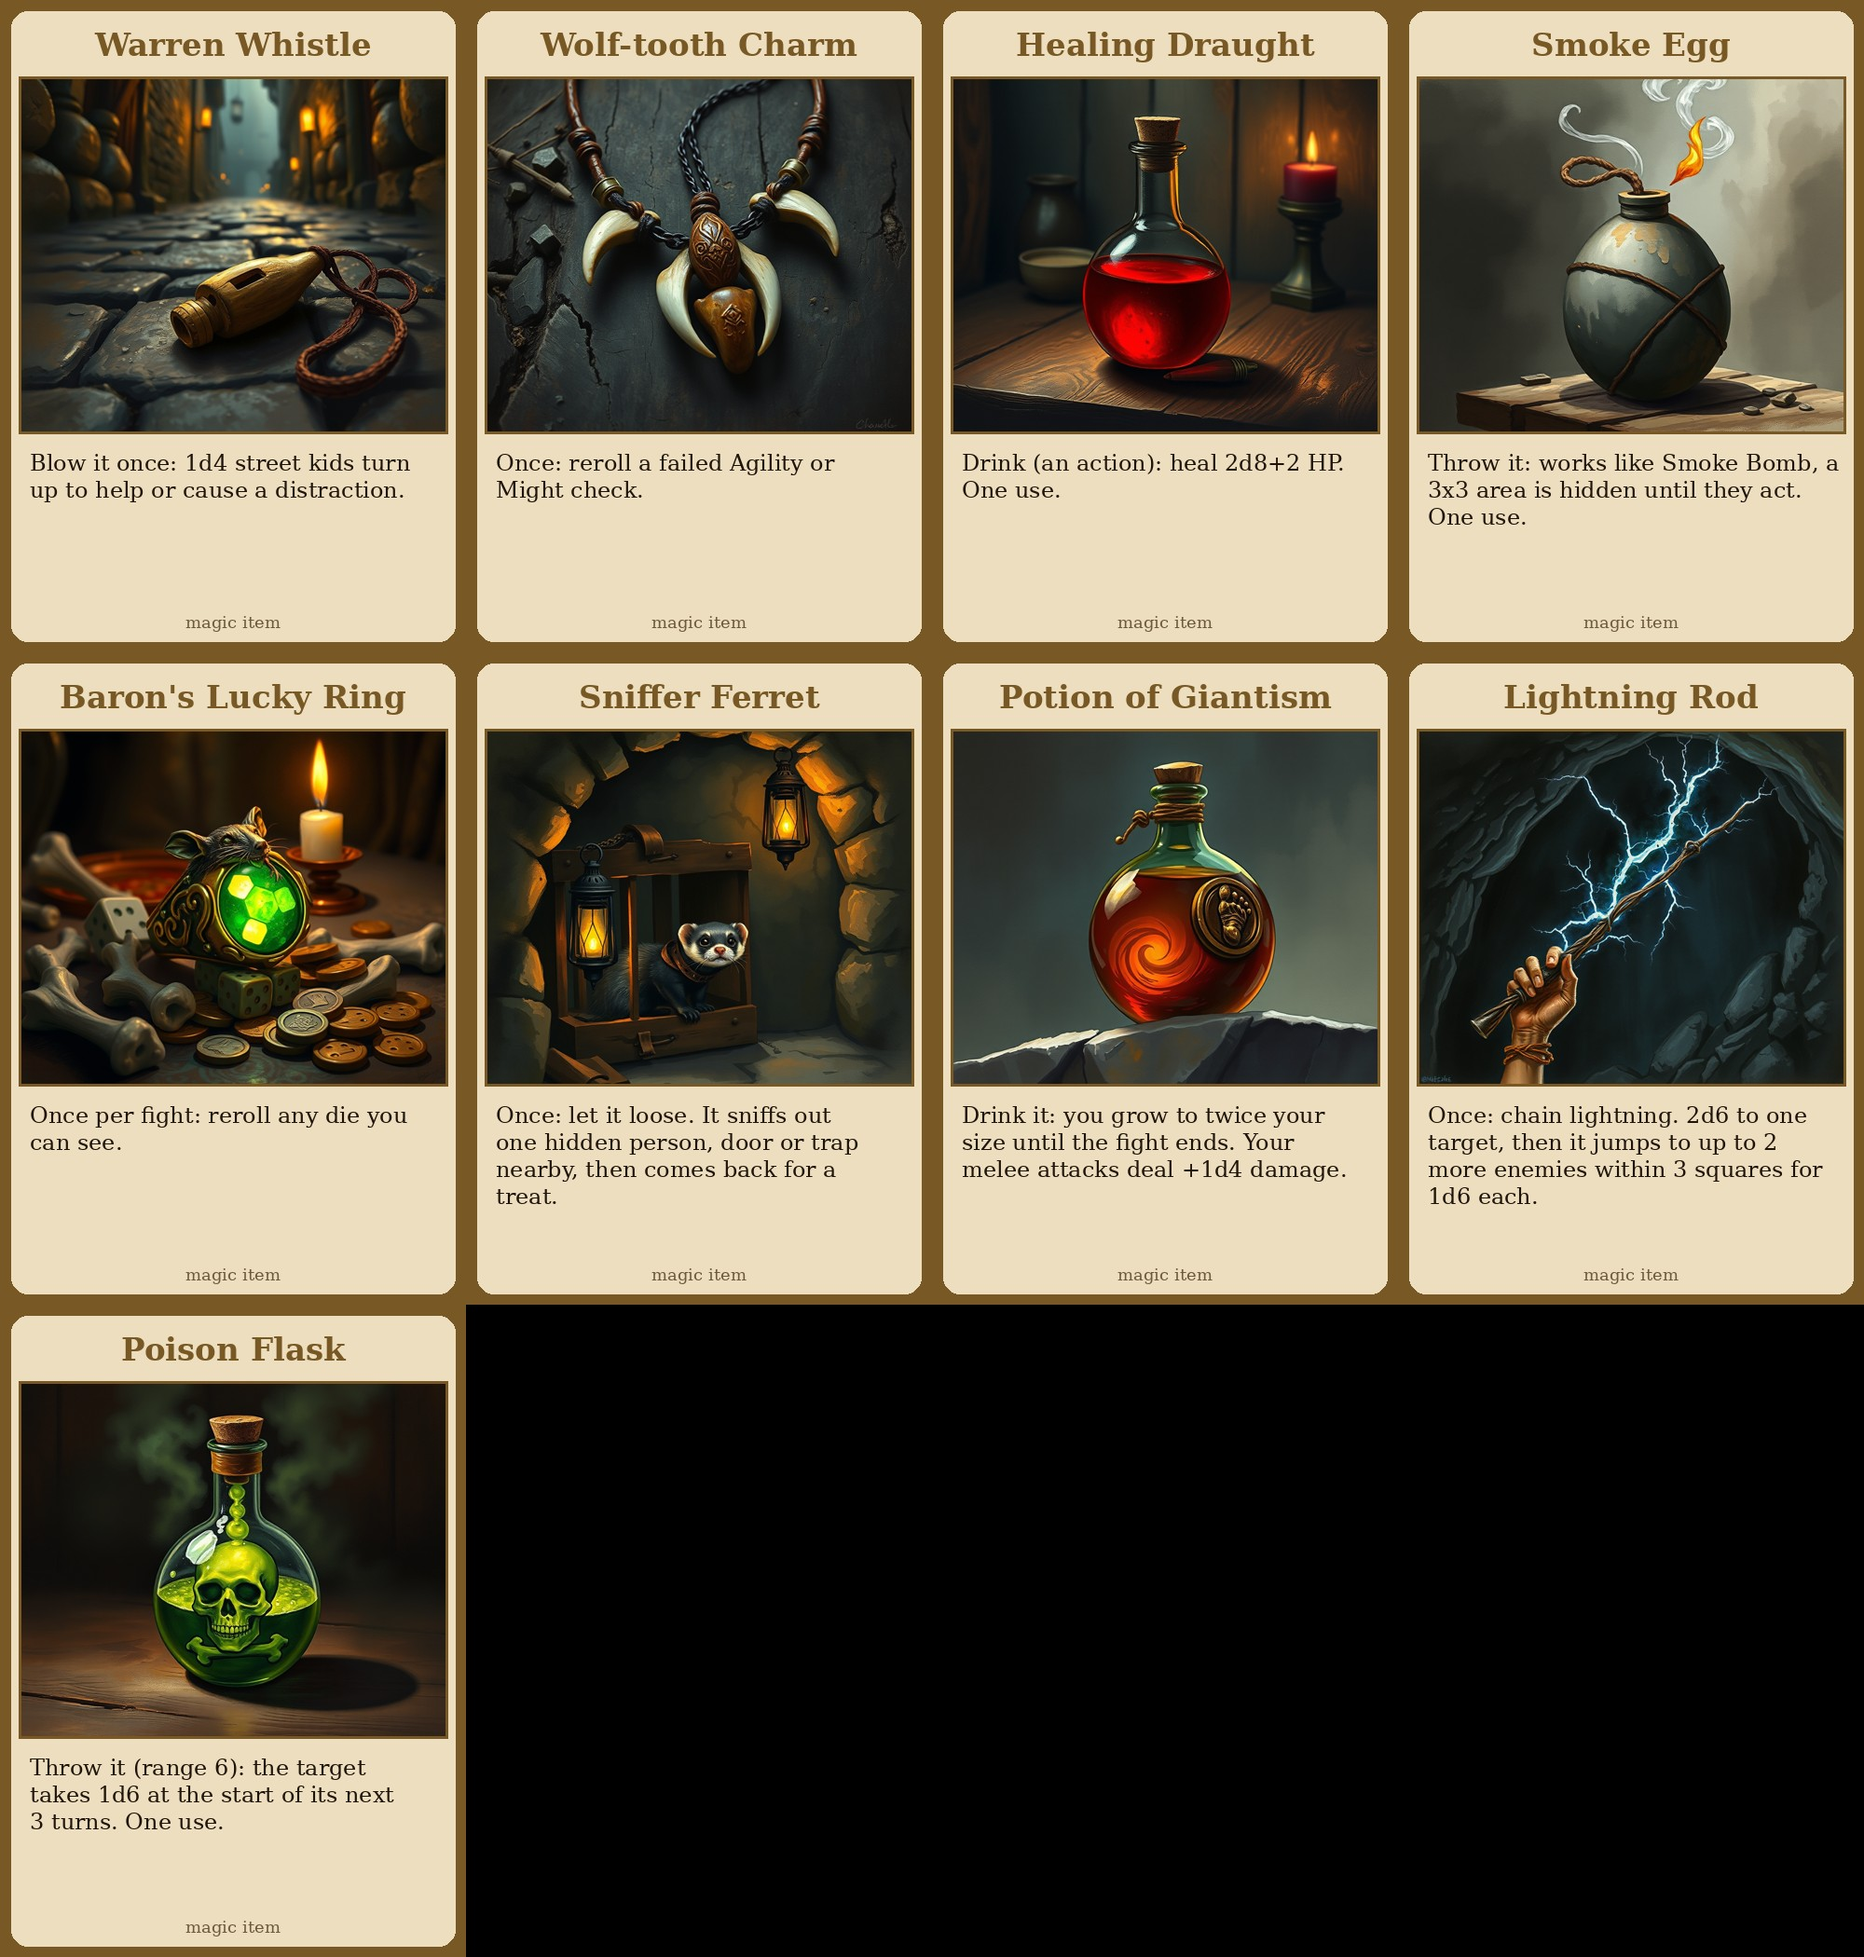
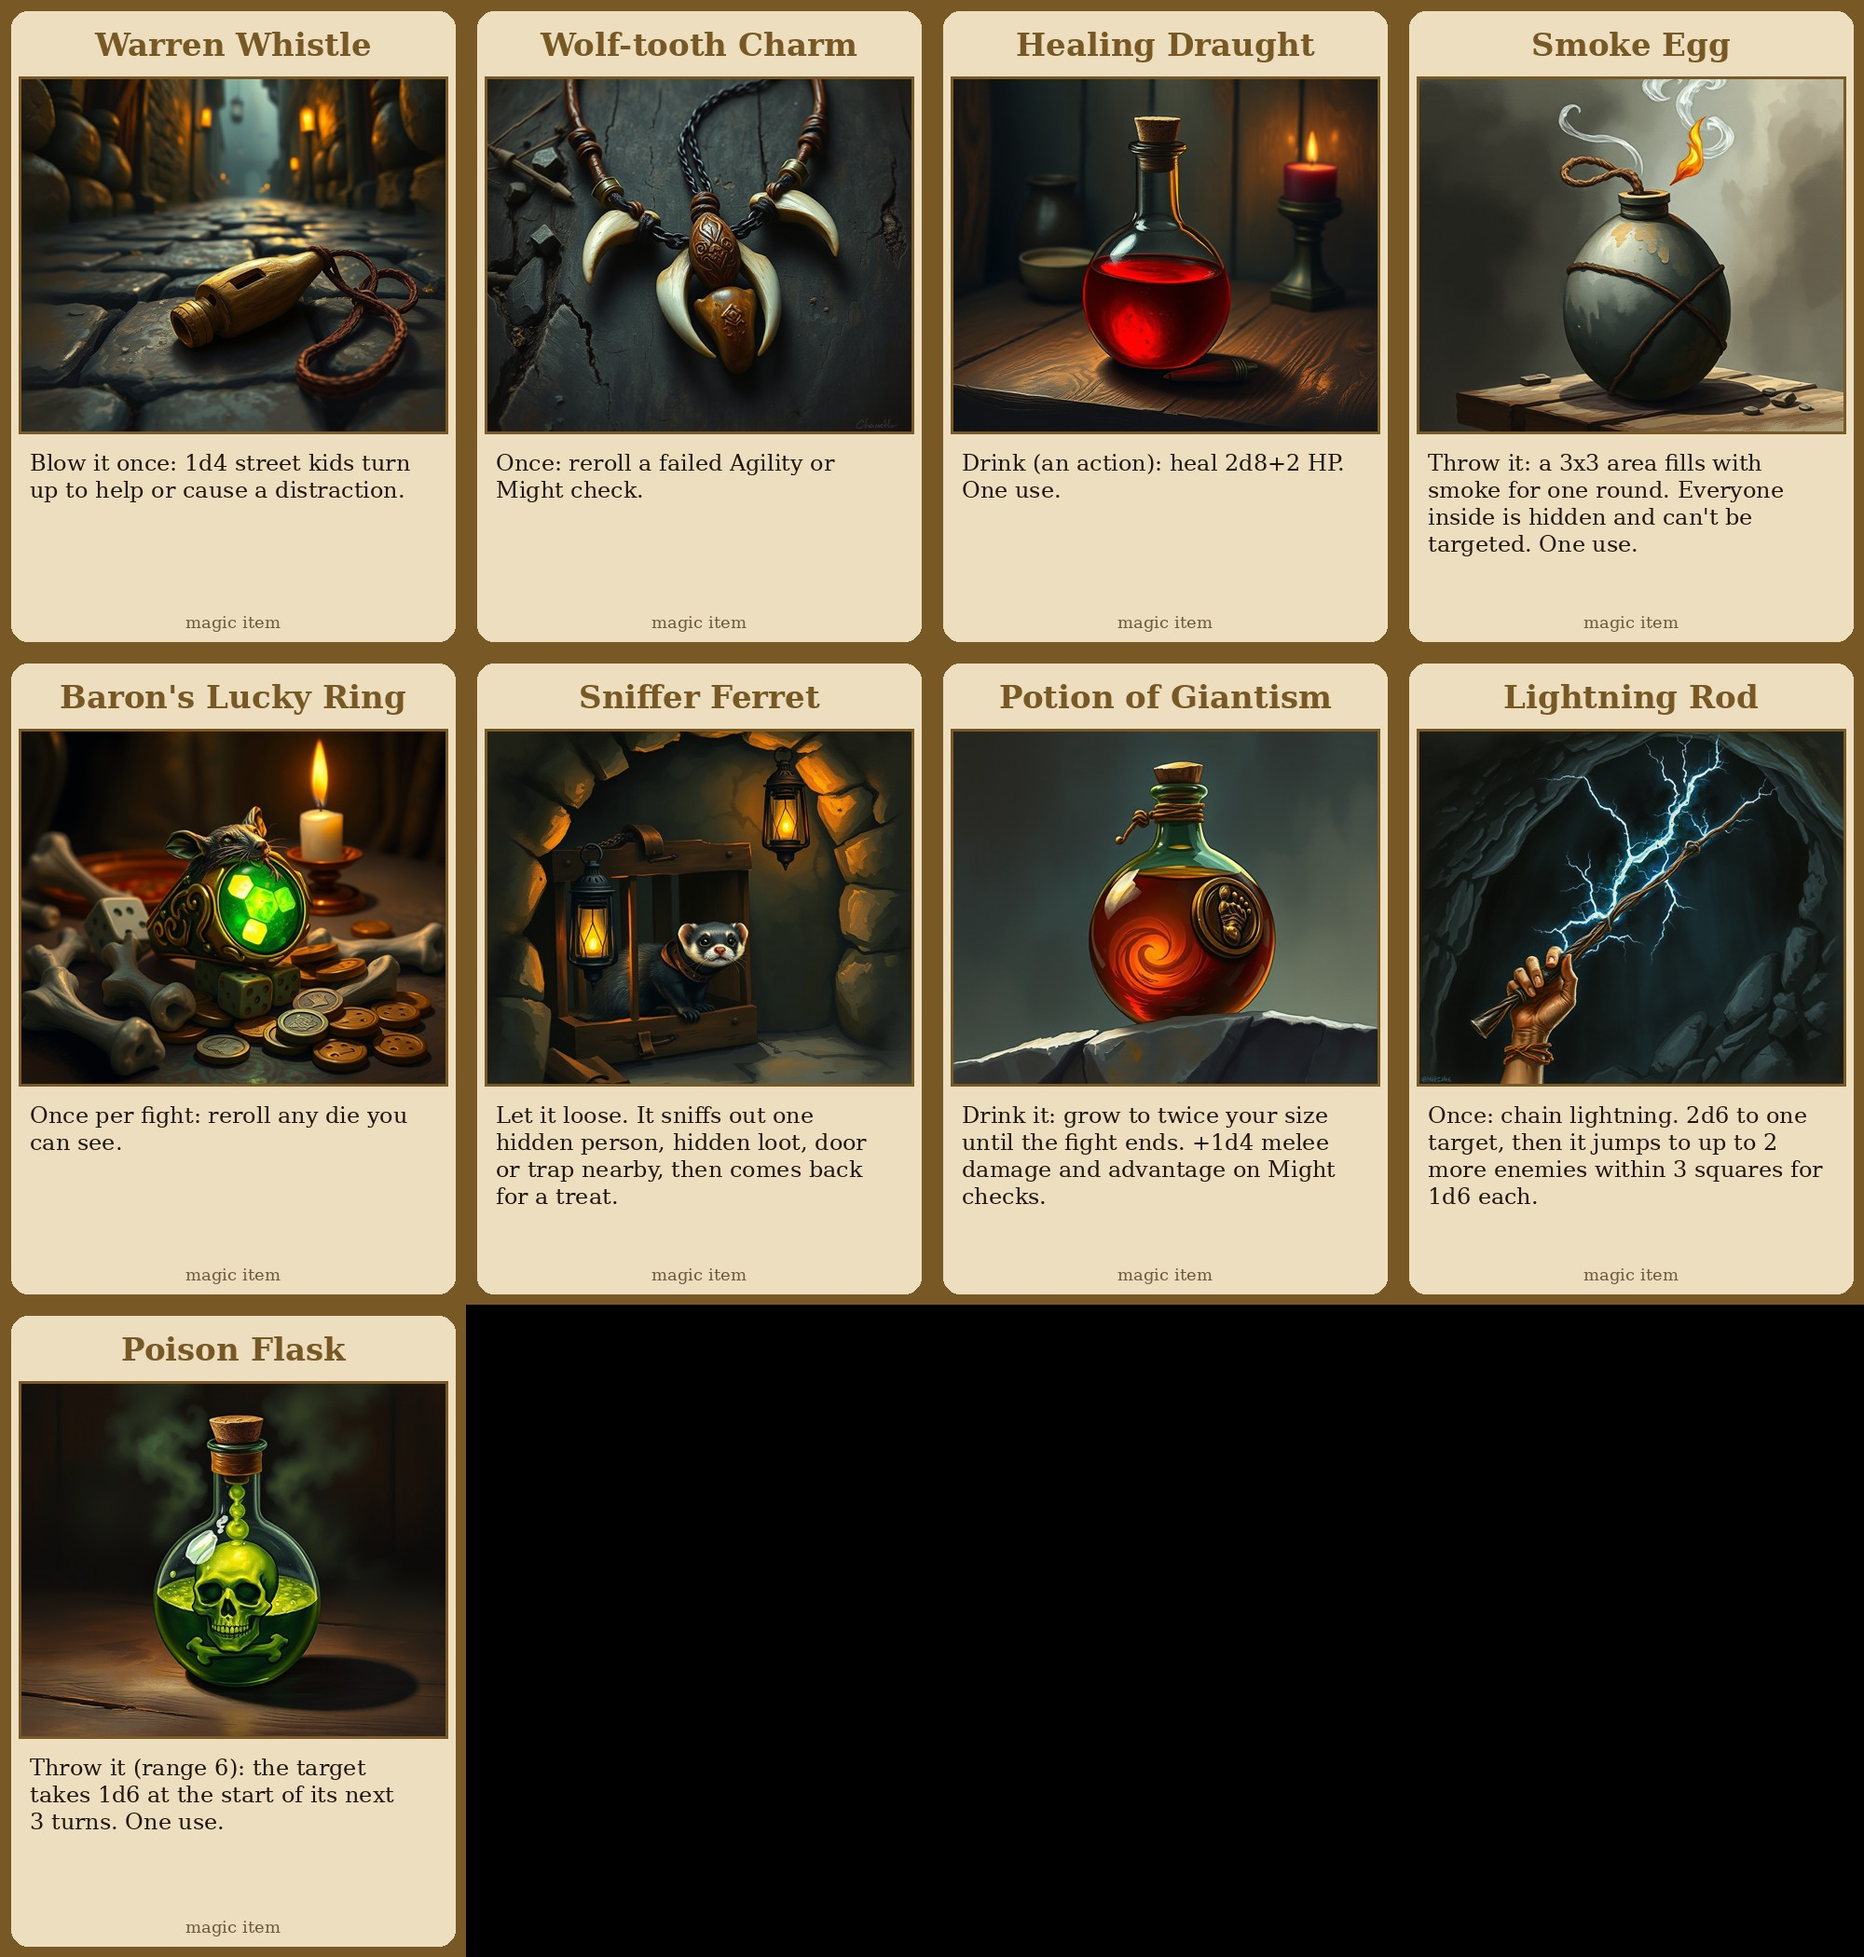
Item text: Giantism adds advantage on Might, Ferret finds hidden loot too, Smoke Egg lasts one round; Shrink grapples with advantage

Changed region(s): [[0.527, 0.5571, 0.713, 0.619], [0.279, 0.5571, 0.465, 0.619], [0.775, 0.2167, 0.961, 0.2786]]

diff --git a/content.py b/content.py
@@ -108,7 +108,7 @@ HEROES = [
          cards=[
              ("Fireball", "3x3 area: 3d6 fire, Agility DC 14 for half. Burns wicker shields to ash.",
               "a huge fireball exploding in a ruined street, wicker burning"),
-             ("Shrink", "One creature nearby shrinks to a third of its size until the end of its next turn: half damage, and it can be grappled and shoved.",
+             ("Shrink", "One creature nearby shrinks to a third of its size until the end of its next turn: half damage, and it can be grappled and shoved with advantage.",
               "a tiny bewildered giant the size of a man standing among towering wizard's purple sparkles, an old wizard pointing his staff at it"),
              ("Levitate", "Lift yourself or one ally up to 10 squares straight up, and set them down gently.",
               "an old wizard levitating in mid-air inside a tall dark cave shaft, feet high above the ground, robes billowing, glowing aura"),
@@ -461,11 +461,11 @@ Disarm: Agility DC 13 (Nimble Fingers auto). Triggered effects:
   4. BELL TRIPWIRE (column +8): harmless... unless it rings: the 2 giant rats in their nest (C) attack.
 SIDE PASSAGES (optional, each off the main tunnel; hover a chest/barrel/sack for its loot):
   A. OLD GUARD POST (north, column -3.5): a skeleton slumped by a chest. LOOT: in a little cage by the skeleton, a
-     SNIFFER FERRET, still alive (the smugglers' pet: once, it finds one hidden person, door or trap) - hint: the
+     SNIFFER FERRET, still alive (the smugglers' pet: it finds one hidden person, hidden loot, door or trap) - hint: the
      princess will be hard to find in the cave. The chest is locked (Agility DC 12): 15 gold, a rope.
   B. COLLAPSED STASH (south, column +1.5): smugglers' goods half buried under a roof fall. Wits DC 12 notices the
      ceiling is loose; digging out the barrel without care brings more down (1d6, Agility DC 12 halves).
-     Inside: 3 rations and a SMOKE EGG (magic: works like Smoke Bomb, once).
+     Inside: 3 rations and a SMOKE EGG (throw it: a 3x3 area is hidden in smoke for one round).
   C. RATS' NEST (north, column +6): the 2 giant rats sleep on stolen bedding. Sneaking past: Agility DC 11.
      The bell tripwire (trap 4) wakes them. In the nest: a gnawed purse, 8 gold.
 Exit (far east): a hatch into a ditch well outside the city walls. Cart tracks in the mud."""),
@@ -520,7 +520,7 @@ he gets a few simple words. Kind Heart makes her trust them. She is not hostile,
   - "We found the little witch in the thieves' cage. She is the Pact-maker. We wanted her to speak for us."
   - "The thieves fought. She... became a bird. White bird. Flew up." (points up the shaft to the north)
   - If healed/fed: "Tell your king: give back the Hearthstone and the mountains are quiet again."
-  - She carries a POTION OF GIANTISM (drink: twice your size until the fight ends, +1d4 melee damage) and gives it if treated kindly.
+  - She carries a POTION OF GIANTISM (drink: twice your size until the fight ends, +1d4 melee damage, advantage on Might checks) and gives it if treated kindly.
 THE SHAFT (north, where the light comes in): 10 squares straight up. Might DC 15 climb (fail: 1d6, try again), rope + one
 climber, or LEVITATE. The SNIFFER FERRET finds her hiding place (otherwise Wits DC 14).
 ISOLDE: in a ledge up the shaft, human again, wounded but alive. Heal her or give her food (she stands).
@@ -559,13 +559,13 @@ ITEMS = [
      "a necklace of wolf teeth and leather strips with a carved bone bead on rough dark wood", 1),
     ("Healing Draught", "Drink (an action): heal 2d8+2 HP. One use.",
      "a small round glass flask of glowing red potion with a cork stopper on a wooden table", 2),
-    ("Smoke Egg", "Throw it: works like Smoke Bomb, a 3x3 area is hidden until they act. One use.",
+    ("Smoke Egg", "Throw it: a 3x3 area fills with smoke for one round. Everyone inside is hidden and can't be targeted. One use.",
      "a grey clay egg-shaped bomb with a short smouldering fuse, wisps of smoke curling from it", 2),
     ("Baron's Lucky Ring", "Once per fight: reroll any die you can see.",
      "a heavy gold signet ring with a rat crest and a glowing green gem resting on a pile of old bone dice and coins on a gambling table, candlelight", 1),
-    ("Sniffer Ferret", "Once: let it loose. It sniffs out one hidden person, door or trap nearby, then comes back for a treat.",
+    ("Sniffer Ferret", "Let it loose. It sniffs out one hidden person, hidden loot, door or trap nearby, then comes back for a treat.",
      "a sly sleek ferret with a tiny leather collar peeking out of a small wooden smuggler's cage, lantern light, stone tunnel", 1),
-    ("Potion of Giantism", "Drink it: you grow to twice your size until the fight ends. Your melee attacks deal +1d4 damage.",
+    ("Potion of Giantism", "Drink it: grow to twice your size until the fight ends. +1d4 melee damage and advantage on Might checks.",
      "a large bulbous potion bottle of swirling amber liquid with a giant's footprint seal on the cork, on a rough stone ledge", 1),
     ("Lightning Rod", "Once: chain lightning. 2d6 to one target, then it jumps to up to 2 more enemies within 3 squares for 1d6 each.",
      "a short iron rod wrapped in copper wire crackling with blue lightning arcs, held up in a dark cave", 1),

diff --git a/GM_GUIDE.md b/GM_GUIDE.md
@@ -61,7 +61,7 @@ Searching: right-click a chest, barrel, crate or sack next to your hero > Search
 
 **Aldric the Wizard** (Purple) HP 16, Def 11, Might +0, Agility +1, Wits +3
 - Card *Fireball*: 3x3 area: 3d6 fire, Agility DC 14 for half. Burns wicker shields to ash.
-- Card *Shrink*: One creature nearby shrinks to a third of its size until the end of its next turn: half damage, and it can be grappled and shoved.
+- Card *Shrink*: One creature nearby shrinks to a third of its size until the end of its next turn: half damage, and it can be grappled and shoved with advantage.
 - Card *Levitate*: Lift yourself or one ally up to 10 squares straight up, and set them down gently.
 - Card *Mirror Image*: Until the fight ends, every attack against you: roll a d6, on 1-3 it hits an illusion instead.
 - Card *Frost Nova*: Enemies adjacent to you take 1d6 and can't move on their next turn.
@@ -189,11 +189,11 @@ Disarm: Agility DC 13 (Nimble Fingers auto). Triggered effects:
   4. BELL TRIPWIRE (column +8): harmless... unless it rings: the 2 giant rats in their nest (C) attack.
 SIDE PASSAGES (optional, each off the main tunnel; hover a chest/barrel/sack for its loot):
   A. OLD GUARD POST (north, column -3.5): a skeleton slumped by a chest. LOOT: in a little cage by the skeleton, a
-     SNIFFER FERRET, still alive (the smugglers' pet: once, it finds one hidden person, door or trap) - hint: the
+     SNIFFER FERRET, still alive (the smugglers' pet: it finds one hidden person, hidden loot, door or trap) - hint: the
      princess will be hard to find in the cave. The chest is locked (Agility DC 12): 15 gold, a rope.
   B. COLLAPSED STASH (south, column +1.5): smugglers' goods half buried under a roof fall. Wits DC 12 notices the
      ceiling is loose; digging out the barrel without care brings more down (1d6, Agility DC 12 halves).
-     Inside: 3 rations and a SMOKE EGG (magic: works like Smoke Bomb, once).
+     Inside: 3 rations and a SMOKE EGG (throw it: a 3x3 area is hidden in smoke for one round).
   C. RATS' NEST (north, column +6): the 2 giant rats sleep on stolen bedding. Sneaking past: Agility DC 11.
      The bell tripwire (trap 4) wakes them. In the nest: a gnawed purse, 8 gold.
 Exit (far east): a hatch into a ditch well outside the city walls. Cart tracks in the mud.
@@ -228,7 +228,7 @@ he gets a few simple words. Kind Heart makes her trust them. She is not hostile,
   - "We found the little witch in the thieves' cage. She is the Pact-maker. We wanted her to speak for us."
   - "The thieves fought. She... became a bird. White bird. Flew up." (points up the shaft to the north)
   - If healed/fed: "Tell your king: give back the Hearthstone and the mountains are quiet again."
-  - She carries a POTION OF GIANTISM (drink: twice your size until the fight ends, +1d4 melee damage) and gives it if treated kindly.
+  - She carries a POTION OF GIANTISM (drink: twice your size until the fight ends, +1d4 melee damage, advantage on Might checks) and gives it if treated kindly.
 THE SHAFT (north, where the light comes in): 10 squares straight up. Might DC 15 climb (fail: 1d6, try again), rope + one
 climber, or LEVITATE. The SNIFFER FERRET finds her hiding place (otherwise Wits DC 14).
 ISOLDE: in a ledge up the shaft, human again, wounded but alive. Heal her or give her food (she stands).
